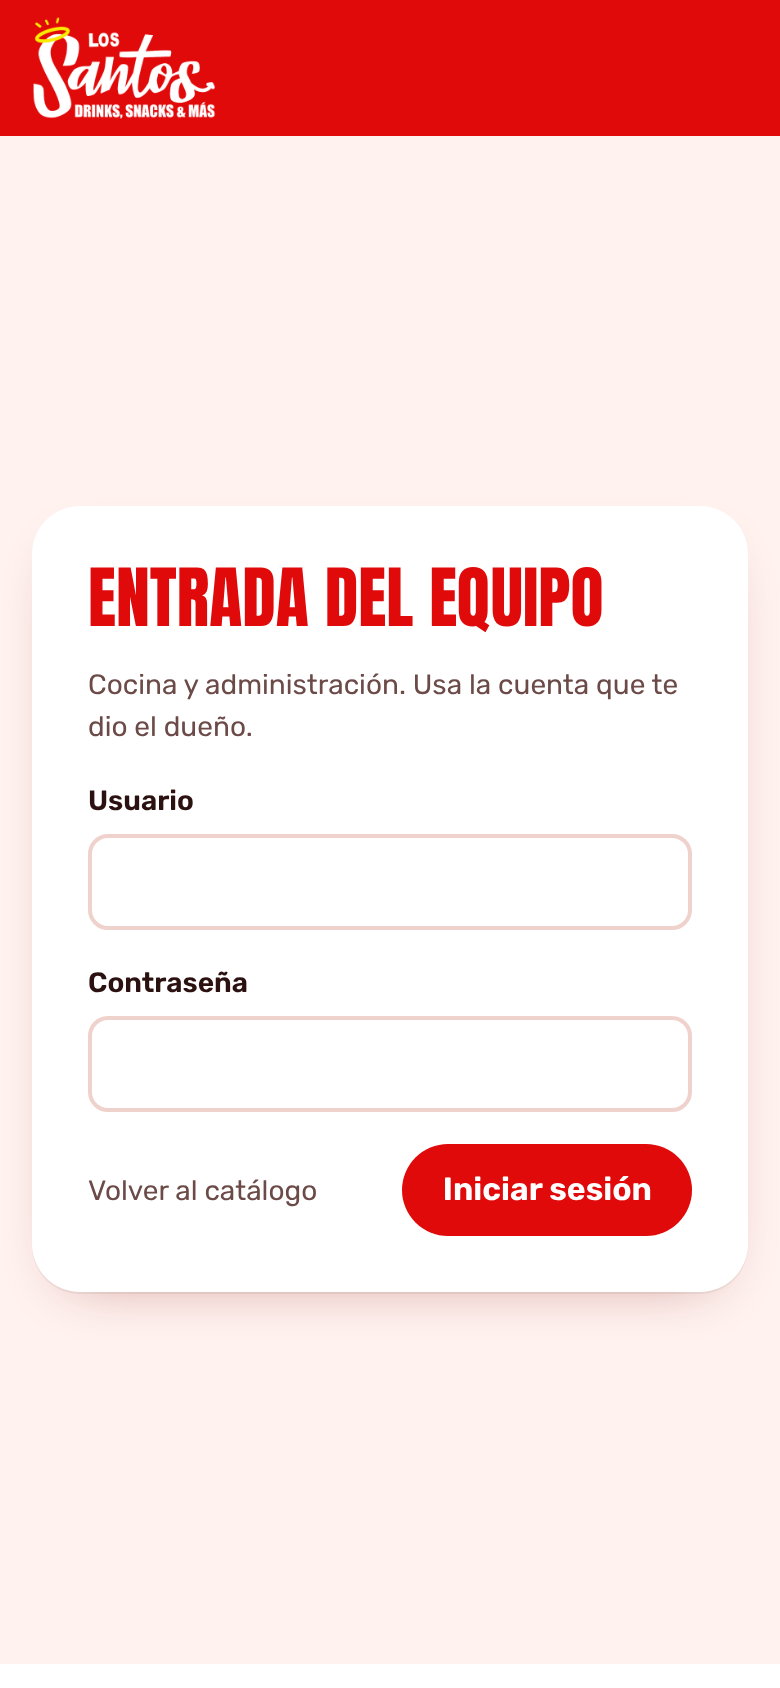
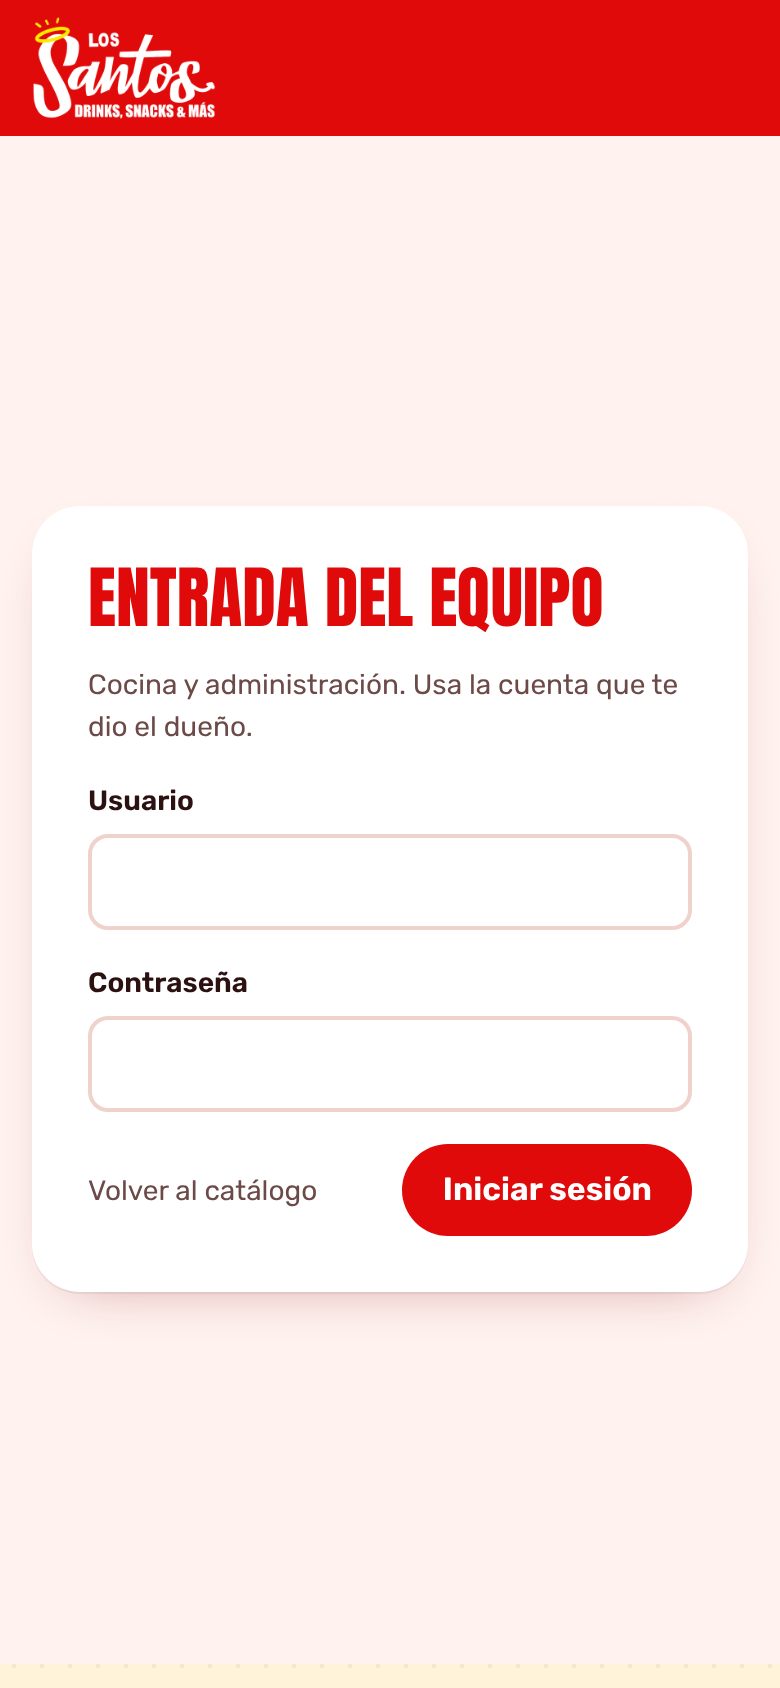
feat: diseño estilo carta, figurines vectoriales y capturas v0.5
- Tableros rojos con listón, portada ¿Qué se te antoja hoy?, Los consentidos.
- Ángel y diablito en SVG con poses y animación respetuosa.
- cloud-init para instalar en Oracle; documentación actualizada.

Claude-Session: https://claude.ai/code/session_01C7ZirhY37d6g1ZN4eAKayi

Changed region(s): [[0.0, 0.9858, 1.0, 1.0]]

diff --git a/entregables/demos/index.html b/entregables/demos/index.html
@@ -1,1 +1,1 @@
-<!doctype html><html lang="es"><meta charset="utf-8"><meta name="viewport" content="width=device-width,initial-scale=1"><title>Los Santos · Capturas v0.4</title><style>body{margin:0;background:#fff;color:#2b1110;font:16px system-ui,sans-serif}header{background:#e10a0a;color:#fff;padding:28px 5%}h1{margin:0;font:700 32px Impact,"Arial Narrow",sans-serif;text-transform:uppercase;letter-spacing:.02em}p{margin:6px 0 0;opacity:.9}main{display:grid;grid-template-columns:repeat(auto-fill,minmax(320px,1fr));gap:20px;padding:24px 5%}figure{margin:0;background:#fff2ef;border-radius:16px;padding:10px}img{width:100%;border-radius:10px;display:block;background:#fff}figcaption{font-weight:600;padding:10px 4px 2px}</style><header><h1>Los Santos · Capturas de la versión 0.4</h1><p>Imágenes de la app funcionando en local con el menú inicial. No es una app interactiva.</p></header><main><figure><img loading="lazy" src="01-cliente-movil.png" alt="Catálogo en teléfono"><figcaption>Catálogo en teléfono</figcaption></figure><figure><img loading="lazy" src="02-cliente-escritorio.png" alt="Portada en computadora"><figcaption>Portada en computadora</figcaption></figure><figure><img loading="lazy" src="03-menu-escritorio.png" alt="Menú por secciones y pedido"><figcaption>Menú por secciones y pedido</figcaption></figure><figure><img loading="lazy" src="04-personalizar.png" alt="Personalizar salsas"><figcaption>Personalizar salsas</figcaption></figure><figure><img loading="lazy" src="05-barra-pedido.png" alt="Barra de pedido en teléfono"><figcaption>Barra de pedido en teléfono</figcaption></figure><figure><img loading="lazy" src="06-colonia-tiempo.png" alt="Colonia con costo y tiempo de entrega"><figcaption>Colonia con costo y tiempo de entrega</figcaption></figure><figure><img loading="lazy" src="07-seguimiento-preparando.png" alt="Seguimiento: llegada aproximada"><figcaption>Seguimiento: llegada aproximada</figcaption></figure><figure><img loading="lazy" src="08-seguimiento-en-camino.png" alt="Seguimiento: en camino, hora de llegada"><figcaption>Seguimiento: en camino, hora de llegada</figcaption></figure><figure><img loading="lazy" src="09-cocina-tablero.png" alt="Cocina: tablero y alarma de pedido nuevo"><figcaption>Cocina: tablero y alarma de pedido nuevo</figcaption></figure><figure><img loading="lazy" src="14-cocina-movil.png" alt="Cocina en teléfono"><figcaption>Cocina en teléfono</figcaption></figure><figure><img loading="lazy" src="10-envios-tiempos.png" alt="Envíos: tarifa y minutos por colonia"><figcaption>Envíos: tarifa y minutos por colonia</figcaption></figure><figure><img loading="lazy" src="15-envios-movil.png" alt="Envíos desde el teléfono"><figcaption>Envíos desde el teléfono</figcaption></figure><figure><img loading="lazy" src="11-catalogo.png" alt="Catálogo administrable"><figcaption>Catálogo administrable</figcaption></figure><figure><img loading="lazy" src="12-nuevo-producto.png" alt="Nuevo producto con foto recortada"><figcaption>Nuevo producto con foto recortada</figcaption></figure><figure><img loading="lazy" src="13-respaldos.png" alt="Respaldos y copia externa"><figcaption>Respaldos y copia externa</figcaption></figure><figure><img loading="lazy" src="16-entrada-personal.png" alt="Entrada del equipo (/personal)"><figcaption>Entrada del equipo (/personal)</figcaption></figure></main></html>
+<!doctype html><html lang="es"><meta charset="utf-8"><meta name="viewport" content="width=device-width,initial-scale=1"><title>Los Santos · Capturas v0.5</title><style>body{margin:0;background:#fff4da;color:#2b1110;font:16px system-ui,sans-serif}header{background:#e10a0a;color:#fff;padding:28px 5%}h1{margin:0;font:700 32px Impact,"Arial Narrow",sans-serif;text-transform:uppercase;letter-spacing:.02em}p{margin:6px 0 0;opacity:.9}main{display:grid;grid-template-columns:repeat(auto-fill,minmax(320px,1fr));gap:20px;padding:24px 5%}figure{margin:0;background:#fff;border-radius:16px;padding:10px}img{width:100%;border-radius:10px;display:block}figcaption{font-weight:600;padding:10px 4px 2px}</style><header><h1>Los Santos · Capturas de la versión 0.5</h1><p>La app funcionando en local con la carta completa. No es una app interactiva.</p></header><main><figure><img loading="lazy" src="01-portada-escritorio.png" alt="Portada: ¿Qué se te antoja hoy?"><figcaption>Portada: ¿Qué se te antoja hoy?</figcaption></figure><figure><img loading="lazy" src="02-carta-escritorio.png" alt="Los consentidos y la carta"><figcaption>Los consentidos y la carta</figcaption></figure><figure><img loading="lazy" src="03-diablitros-drinks.png" alt="Diablitros y Drinks"><figcaption>Diablitros y Drinks</figcaption></figure><figure><img loading="lazy" src="04-portada-movil.png" alt="Portada en teléfono"><figcaption>Portada en teléfono</figcaption></figure><figure><img loading="lazy" src="05-elotiza-movil.png" alt="La Elotiza en teléfono"><figcaption>La Elotiza en teléfono</figcaption></figure><figure><img loading="lazy" src="06-personalizar-alitas.png" alt="Piezas y salsas de alitas"><figcaption>Piezas y salsas de alitas</figcaption></figure><figure><img loading="lazy" src="07-barra-pedido.png" alt="Barra de pedido"><figcaption>Barra de pedido</figcaption></figure><figure><img loading="lazy" src="08-pago-transferencia.png" alt="Pago por transferencia"><figcaption>Pago por transferencia</figcaption></figure><figure><img loading="lazy" src="09-datos-transferencia.png" alt="Datos bancarios y WhatsApp del comprobante"><figcaption>Datos bancarios y WhatsApp del comprobante</figcaption></figure><figure><img loading="lazy" src="10-cocina-transferencia.png" alt="Cocina: confirmar transferencia"><figcaption>Cocina: confirmar transferencia</figcaption></figure><figure><img loading="lazy" src="11-seguimiento-en-camino.png" alt="Seguimiento: en camino con hora de llegada"><figcaption>Seguimiento: en camino con hora de llegada</figcaption></figure><figure><img loading="lazy" src="12-cocina-en-camino.png" alt="Cocina: pedido en camino"><figcaption>Cocina: pedido en camino</figcaption></figure><figure><img loading="lazy" src="13-catalogo-admin.png" alt="Catálogo administrable"><figcaption>Catálogo administrable</figcaption></figure><figure><img loading="lazy" src="14-transferencia-admin.png" alt="Datos de transferencia en Administración"><figcaption>Datos de transferencia en Administración</figcaption></figure><figure><img loading="lazy" src="15-envios-tiempos.png" alt="Envíos: costo y minutos por colonia"><figcaption>Envíos: costo y minutos por colonia</figcaption></figure><figure><img loading="lazy" src="16-entrada-personal.png" alt="Entrada del equipo"><figcaption>Entrada del equipo</figcaption></figure></main></html>

diff --git a/src/components/Mascot.jsx b/src/components/Mascot.jsx
@@ -97,7 +97,7 @@ export default function Mascot({ kind = "angel", pose = "hola", className = "", 
   return (
     <svg
       viewBox="0 0 200 250"
-      className={`mascot-svg mascot-${kind} pose-${pose} ${className}`}
+      className={`mascot-svg m-${kind} pose-${pose} ${className}`}
       role={title ? "img" : "presentation"}
       aria-label={title}
       aria-hidden={title ? undefined : "true"}

diff --git a/src/style.css b/src/style.css
@@ -3125,3 +3125,11 @@ body {
     left: 24%;
   }
 }
+.tracking h3 {
+  padding-right: 64px;
+}
+.tracking-mascot {
+  top: -26px;
+  right: 6px;
+  width: 60px;
+}

diff --git a/README.md b/README.md
@@ -2,6 +2,15 @@
 
 Aplicación de pedidos de **Los Santos · Drinks, snacks & más** (Minatitlán, Ver.) con tres módulos: cliente, cocina y administración. React, Tailwind, Express y SQLite de Node.js 24. Español, precios MXN y zona horaria configurable.
 
+## Novedades de la versión 0.5 (lanzamiento web)
+
+- **Carta completa** de “¿Qué se te antoja hoy?”: 46 productos activos en Combos, Hamburguesas (pecados capitales), Alitas y boneless (10/15/20 piezas, 300 g/500 g/1 kg y 8 salsas), Diablitros (miches), Drinks, La Elotiza (esquites, elotes con sabrita, charolas) y Mariscos (aguachile con promoción de 2 micheladas por $150). Dos combos que en la carta aparecen atenuados quedan **archivados**: se reactivan en Catálogo → Archivados.
+- **Rediseño estilo carta impresa**: fondo papel, tableros rojos con listón amarillo, título “¿Qué se te antoja hoy?”, sección “Los consentidos” y menú en lista para pedir rápido desde el teléfono.
+- **Ángel y diablito redibujados en vector** con poses (saluda, guiña, antojo, duerme, fiesta) y movimiento leve: aparecen en la portada, en las secciones, en el carrito, en el seguimiento, en la alarma de Cocina y cuando los pedidos están en pausa.
+- **Pago por transferencia**: el dueño captura banco, titular y CLABE en Administración → Negocio; el cliente ve los datos con botones para copiar y un botón que abre WhatsApp (921 489 9319 por defecto) con el folio y el monto. Cocina pulsa “Transferencia recibida” antes de preparar. Aparece en caja, CSV y ticket.
+- **Mercado Pago** se muestra como “Muy pronto” y queda desactivado hasta configurar sus credenciales.
+- Frase editable por categoría (el listón amarillo) y `scripts/oracle-cloud-init.yaml` para crear el servidor de Oracle ya instalado.
+
 ## Novedades de la versión 0.4 (versión unificada)
 
 Reúne lo mejor de tres líneas de trabajo: la v0.3 (catálogo administrable, rediseño, Mercado Pago probado, respaldos a R2/B2, rendimiento), la **v2** que compartiste (fotos recortadas reales, logotipo y personajes en alta calidad, alarma de cocina con sonido) y la rama `entrega-los-santos` de **GitHub** (app Android de Cocina con alarma nativa, compilación en GitHub Actions, guía de Google Cloud y respaldo con rclone).

diff --git a/docs/ASSETS.md b/docs/ASSETS.md
@@ -10,3 +10,9 @@
 - Tipografías incluidas en el paquete (sin peticiones externas): Anton (títulos y precios) y Rubik (texto), ambas con licencia SIL Open Font License.
 
 Las fotos que se suben desde el panel se guardan en `data/uploads/` con nombre aleatorio, se sirven desde `/uploads/` y se copian a los respaldos externos si están configurados.
+
+## Versión 0.5
+
+- `src/components/Mascot.jsx`: ángel y diablito redibujados en SVG a partir de los personajes de la marca, con poses `hola`, `guino`, `antojo`, `duerme` y `fiesta`. Cambian de color con `tone` y `fill` y se animan solo si el dispositivo no pide reducir movimiento.
+- `public/images/products/miche.png`, `mojito-limon.png`, `kittychela.png`, `elote-espolvoreado.png`: recortes sin fondo tomados de la carta impresa. `public/images/aguachile.jpg` y `vaso-botanero.jpg` son fragmentos de la misma carta. Su resolución es baja (vienen de una imagen de 1280 px): sirven para miniaturas; sustitúyelas por fotos propias cuando las tengas.
+- Tipografía adicional: DM Serif Display (cursiva para “antoja” y los listones), licencia SIL Open Font License.

diff --git a/docs/PRUEBAS-REALES.md b/docs/PRUEBAS-REALES.md
@@ -66,7 +66,13 @@ En el local, con el servidor publicado:
 - [ ] Cocina: con la alarma activada, un pedido nuevo suena en bucle; “Silenciar” lo calla y vuelve a sonar a los 90 s si nadie lo acepta.
 - [ ] App Android (si la usas): sigue [ANDROID.md](ANDROID.md) → “Instalar en la tablet de cocina”.
 
-## 6. Antes de abrir al público
+## 6. Pago por transferencia
+
+- [ ] Captura banco, titular y CLABE en Administración → Negocio y verifica en el teléfono que el cliente los ve y puede copiarlos.
+- [ ] El botón “Enviar comprobante por WhatsApp” abre el chat de 921 489 9319 con folio y monto.
+- [ ] En Cocina, “Transferencia recibida” solo después de ver el depósito en el banco (no solo la captura de pantalla).
+
+## 7. Antes de abrir al público
 
 - [ ] Cambia los precios y fotos de ejemplo desde **Administración → Catálogo** (los precios de Promos son los publicados en Facebook; el resto son de ejemplo).
 - [ ] Revisa colonias y costos de envío en **Envíos**.

diff --git a/docs/DEPLOYMENT.md b/docs/DEPLOYMENT.md
@@ -44,7 +44,11 @@ echo '/swapfile none swap sw 0 0' | sudo tee -a /etc/fstab
 1. Entra a duckdns.org con tu cuenta de Google/GitHub y crea, por ejemplo, `lossantos` → `lossantos.duckdns.org`.
 2. Escribe la IP pública de la VM y guarda.
 
-## 3. Instalar la app en la VM
+### Atajo: VM que se instala sola (cloud-init)
+
+En **Crear instancia → Mostrar opciones avanzadas → Gestión** pega el contenido de `scripts/oracle-cloud-init.yaml` con sus valores reemplazados (dominio, contraseñas iniciales, correo y la llave de solo lectura del repositorio). Al encender, la VM instala Docker, abre los puertos, descarga la rama `lanzamiento-web` y arranca la app con HTTPS. Tarda unos 10 minutos. Después solo falta apuntar DuckDNS a la IP pública.
+
+## 3. Instalar la app en la VM (manual)
 
 ```bash
 ssh -i llave.key ubuntu@IP_DE_LA_VM
